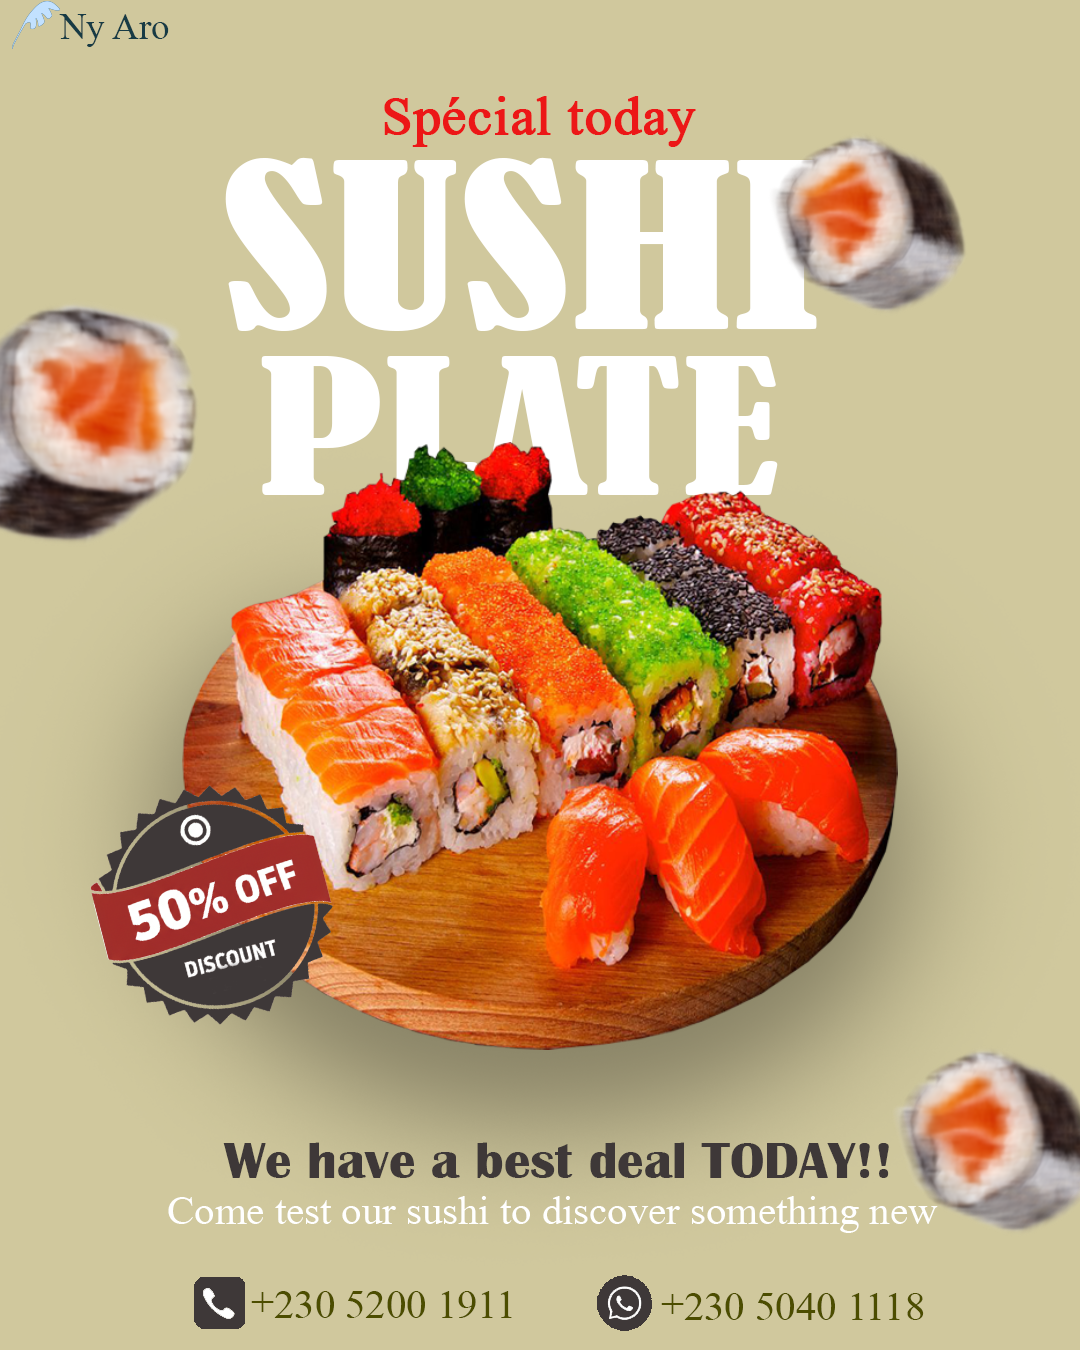
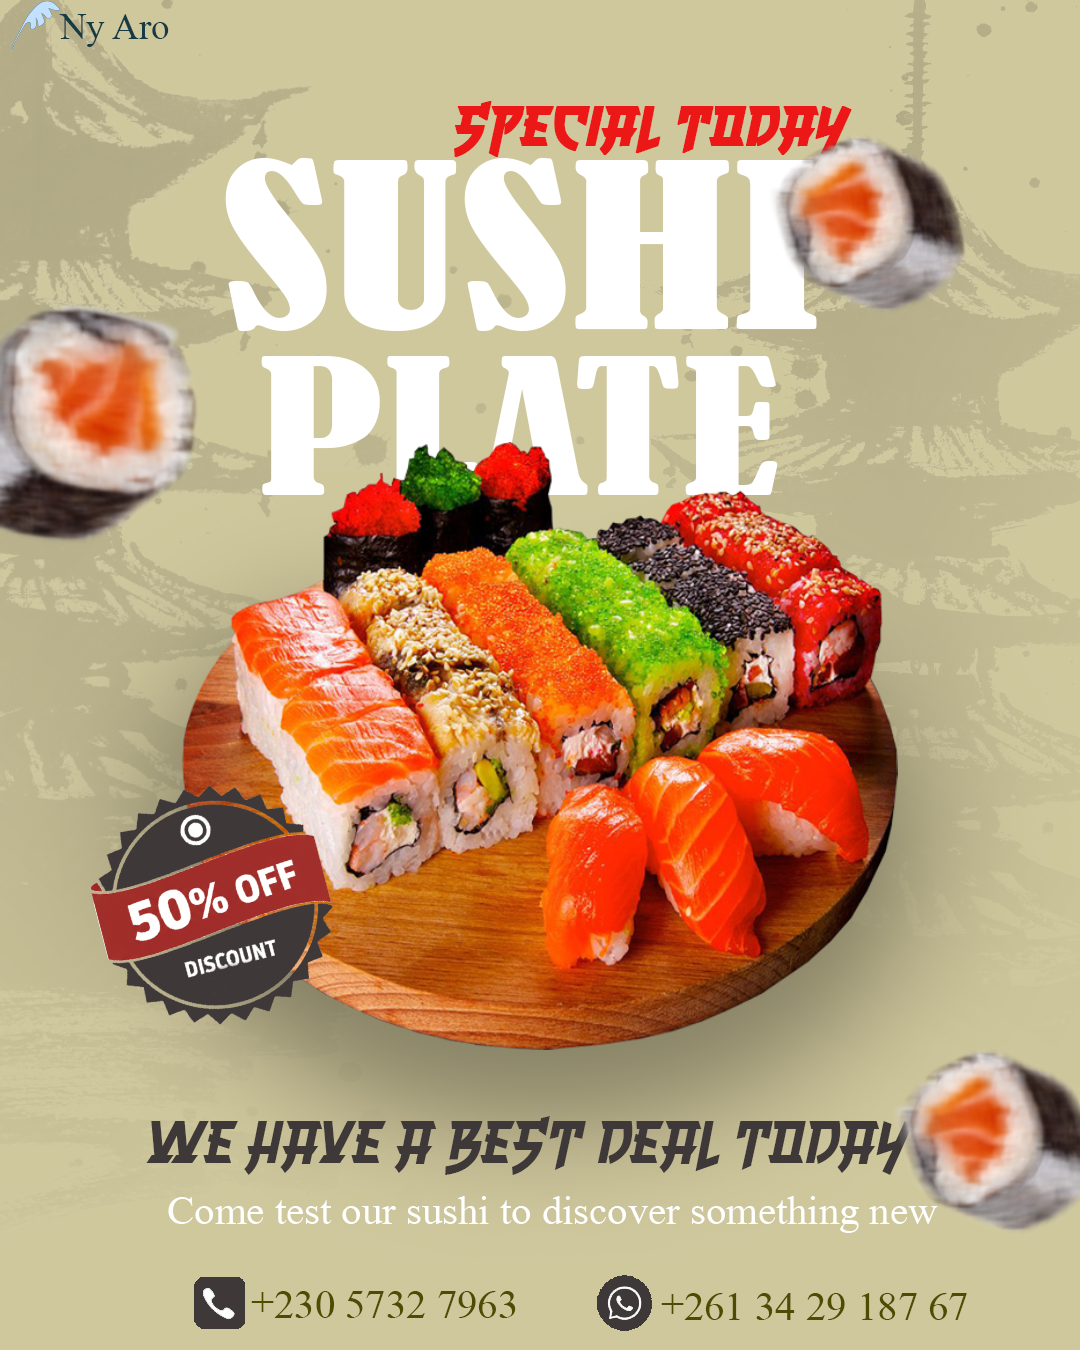
e

diff --git a/Affiches.html b/Affiches.html
@@ -461,17 +461,17 @@ footer {
             
             <div class="poster-card">
                 <div class="poster-image">
-                    <img src="img/Affiches/" alt="Design Agrival">
+                    <img src="img/Affiches/Burger 1.png" alt="Design Agrival">
                 </div>
                 <div class="poster-info">
-                    <h3 class="poster-title">Design</h3>
+                    <h3 class="poster-title">Design </h3>
                     <p class="poster-category lang-text" data-fr="Coup de main en design" data-en="Support other designer">Coup de main en design</p>
                 </div>
             </div>
 
             <div class="poster-card">
                 <div class="poster-image">
-                    <img src="img/Affiches/Sushi.png" alt="Design Nutrilait">
+                    <img src="img/Affiches/Butter Chicken Thali - Modifié.png" alt="Design Nutrilait">
                 </div>
                 <div class="poster-info">
                     <h3 class="poster-title">Sushi</h3>
@@ -481,7 +481,7 @@ footer {
 
             <div class="poster-card">
                 <div class="poster-image">
-                    <img src="img/Affiches/" alt="Fyaro Services">
+                    <img src="img/Affiches/Butter Chicken Thali.png" alt="Fyaro Services">
                 </div>
                 <div class="poster-info">
                     <h3 class="poster-title">TEST</h3>
@@ -501,7 +501,7 @@ footer {
 
             <div class="poster-card">
                 <div class="poster-image">
-                    <img src="img/Affiches/intense perfume.png" alt="MBA Projet">
+                    <img src="img/Affiches/Indian King - MASALA UTTAPAM Thali Veg.png" alt="MBA Projet">
                 </div>
                 <div class="poster-info">
                     <h3 class="poster-title">Corporate Management</h3>
@@ -511,7 +511,25 @@ footer {
 
             <div class="poster-card">
                 <div class="poster-image">
-                    <img src="img/affiche-meditation.png" alt="Projet Sérénité">
+                    <img src="img/Affiches/intense perfume.png" alt="Projet Sérénité">
+                </div>
+                <div class="poster-info">
+                    <h3 class="poster-title">Mindfulness Concept</h3>
+                    <p class="poster-category lang-text" data-fr="Affiche Conceptuelle" data-en="Conceptual Poster">Affiche Conceptuelle</p>
+                </div>
+            </div>
+            <div class="poster-card">
+                <div class="poster-image">
+                    <img src="img/Affiches/Serum.png" alt="Projet Sérénité">
+                </div>
+                <div class="poster-info">
+                    <h3 class="poster-title">Mindfulness Concept</h3>
+                    <p class="poster-category lang-text" data-fr="Affiche Conceptuelle" data-en="Conceptual Poster">Affiche Conceptuelle</p>
+                </div>
+            </div>
+            <div class="poster-card">
+                <div class="poster-image">
+                    <img src="img/Affiches/Sushi.png" alt="Projet Sérénité">
                 </div>
                 <div class="poster-info">
                     <h3 class="poster-title">Mindfulness Concept</h3>
